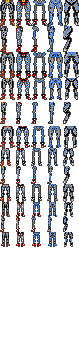
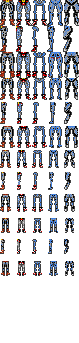
Daily checkin

Changed region(s): [[0.6076, 0.2915, 0.9873, 0.8163], [0.2025, 0.2915, 0.5823, 0.8163], [0.0, 0.4082, 0.1519, 0.8163]]

diff --git a/testing.js b/testing.js
@@ -7,13 +7,11 @@ var characterSpriteLocations = characterSpriteLocation();
 
 function testing(){
     
-
-    
-    if (test > 3){
-        test = 0;
+    if (DIRECTION > 3){
+        DIRECTION = 0;
     };
-    if (test < 0){
-        test = 3;
+    if (DIRECTION < 0){
+        DIRECTION = 3;
     }
     
     var CHAR_PARTY_FRONT_RIGHTX = 65,
@@ -23,41 +21,44 @@ function testing(){
             CHAR_SOLO_X = 0,
             CHAR_SOLO_Y = 0;
     
-    //test1 = 1;
-   //test = 3;
+//test1 = 3;
+ //test = 3;
     
-    var DISTANCE = test1;  
+
     
-    var CHAR_OFFSETX = CHAR_PARTY_FRONT_LEFTX,
-            CHAR_OFFSETY = CHAR_PARTY_FRONT_LEFTY;
+    var CHAR_OFFSETX = CHAR_SOLO_X,
+            CHAR_OFFSETY = CHAR_SOLO_Y;
+    
+    //var COLOR = 0;
     
     try {
         
-        switch (test) {
+        switch (DIRECTION) {
             
-            case 0:{ctx.drawImage(characterGfx[IMAGE_CHA_LEG][test2][test1][test],characterSpriteLocations[DISTANCE][0][0]+CHAR_OFFSETX,characterSpriteLocations[DISTANCE][0][1]+CHAR_OFFSETY,characterGfx[IMAGE_CHA_LEG][test2][test1][test].width * scale, characterGfx[IMAGE_CHA_LEG][test2][test1][test].height * scale); 
-                    ctx.drawImage(characterGfx[IMAGE_CHA_BODY][test2][test1][test],characterSpriteLocations[DISTANCE][1][0]+CHAR_OFFSETX,characterSpriteLocations[DISTANCE][1][1]+CHAR_OFFSETY,characterGfx[IMAGE_CHA_BODY][test2][test1][test].width * scale, characterGfx[IMAGE_CHA_BODY][test2][test1][test].height * scale); 
-                    ctx.drawImage(characterGfx[IMAGE_CHA_HEAD][test2][test1][test],characterSpriteLocations[DISTANCE][2][0]+CHAR_OFFSETX,characterSpriteLocations[DISTANCE][2][1]+CHAR_OFFSETY,characterGfx[IMAGE_CHA_HEAD][test2][test1][test].width * scale, characterGfx[IMAGE_CHA_HEAD][test2][test1][test].height * scale); 
-                    ctx.drawImage(flipImage(characterGfx[IMAGE_CHA_ARM][0][test1][test]),characterSpriteLocations[DISTANCE][3][0]+CHAR_OFFSETX,characterSpriteLocations[DISTANCE][3][1]+CHAR_OFFSETY,characterGfx[IMAGE_CHA_ARM][0][test1][test].width * scale, characterGfx[IMAGE_CHA_ARM][0][test1][test].height * scale);
-                    ctx.drawImage(characterGfx[IMAGE_CHA_ARM][0][test1][test],characterSpriteLocations[DISTANCE][4][0]+CHAR_OFFSETX,characterSpriteLocations[DISTANCE][4][1]+CHAR_OFFSETY-DISTANCE,characterGfx[IMAGE_CHA_ARM][0][test1][test].width * scale, characterGfx[IMAGE_CHA_ARM][0][test1][test].height * scale);}break;
-            case 1:{ctx.drawImage(characterGfx[IMAGE_CHA_LEG][test2][test1][test],characterSpriteLocations[DISTANCE][5][0]+CHAR_OFFSETX,characterSpriteLocations[DISTANCE][5][1]+CHAR_OFFSETY,characterGfx[IMAGE_CHA_LEG][test2][test1][test].width * scale, characterGfx[IMAGE_CHA_LEG][test2][test1][test].height * scale); 
-                    ctx.drawImage(characterGfx[IMAGE_CHA_BODY][test2][test1][test],characterSpriteLocations[DISTANCE][6][0]+CHAR_OFFSETX,characterSpriteLocations[DISTANCE][6][1]+CHAR_OFFSETY,characterGfx[IMAGE_CHA_BODY][test2][test1][test].width * scale, characterGfx[IMAGE_CHA_BODY][test2][test1][test].height * scale); 
-                    ctx.drawImage(characterGfx[IMAGE_CHA_HEAD][test2][test1][test],characterSpriteLocations[DISTANCE][7][0]+CHAR_OFFSETX,characterSpriteLocations[DISTANCE][7][1]+CHAR_OFFSETY,characterGfx[IMAGE_CHA_HEAD][test2][test1][test].width * scale, characterGfx[IMAGE_CHA_HEAD][test2][test1][test].height * scale);                    
-                    ctx.drawImage(flipImage(characterGfx[IMAGE_CHA_ARM][0][0][1]),characterSpriteLocations[DISTANCE][8][0]+CHAR_OFFSETX,characterSpriteLocations[DISTANCE][8][1]+CHAR_OFFSETY,characterGfx[IMAGE_CHA_ARM][0][0][1].width * scale, characterGfx[IMAGE_CHA_ARM][0][0][1].height * scale);}break;
-            case 2:{ctx.drawImage(characterGfx[IMAGE_CHA_LEG][test2][test1][test],characterSpriteLocations[DISTANCE][9][0]+CHAR_OFFSETX,characterSpriteLocations[DISTANCE][9][1]+CHAR_OFFSETY,characterGfx[IMAGE_CHA_LEG][test2][test1][test].width * scale, characterGfx[IMAGE_CHA_LEG][test2][test1][test].height * scale); 
-                    ctx.drawImage(characterGfx[IMAGE_CHA_BODY][test2][test1][test],characterSpriteLocations[DISTANCE][10][0]+CHAR_OFFSETX,characterSpriteLocations[DISTANCE][10][1]+CHAR_OFFSETY,characterGfx[IMAGE_CHA_BODY][test2][test1][test].width * scale, characterGfx[IMAGE_CHA_BODY][test2][test1][test].height * scale); 
-                    ctx.drawImage(characterGfx[IMAGE_CHA_HEAD][test2][test1][test],characterSpriteLocations[DISTANCE][11][0]+CHAR_OFFSETX,characterSpriteLocations[DISTANCE][11][1]+CHAR_OFFSETY,characterGfx[IMAGE_CHA_HEAD][test2][test1][test].width * scale, characterGfx[IMAGE_CHA_HEAD][test2][test1][test].height * scale);
-                    ctx.drawImage(characterGfx[IMAGE_CHA_ARM][0][0][1],characterSpriteLocations[DISTANCE][12][0]+CHAR_OFFSETX,characterSpriteLocations[DISTANCE][12][1]+CHAR_OFFSETY,characterGfx[IMAGE_CHA_ARM][0][0][1].width * scale, characterGfx[IMAGE_CHA_ARM][0][0][1].height * scale);}break;
-            case 3:{ctx.drawImage(characterGfx[IMAGE_CHA_LEG][test2][test1][test],characterSpriteLocations[DISTANCE][13][0]+CHAR_OFFSETX,characterSpriteLocations[DISTANCE][13][1]+CHAR_OFFSETY,characterGfx[IMAGE_CHA_LEG][test2][test1][test].width * scale, characterGfx[IMAGE_CHA_LEG][test2][test1][test].height * scale); 
-                    ctx.drawImage(characterGfx[IMAGE_CHA_BODY][test2][test1][test],characterSpriteLocations[DISTANCE][14][0]+CHAR_OFFSETX,characterSpriteLocations[DISTANCE][14][1]+CHAR_OFFSETY,characterGfx[IMAGE_CHA_BODY][test2][test1][test].width * scale, characterGfx[IMAGE_CHA_BODY][test2][test1][test].height * scale); 
-                    ctx.drawImage(characterGfx[IMAGE_CHA_HEAD][test2][test1][test],characterSpriteLocations[DISTANCE][15][0]+CHAR_OFFSETX,characterSpriteLocations[DISTANCE][15][1]+CHAR_OFFSETY,characterGfx[IMAGE_CHA_HEAD][test2][test1][test].width * scale, characterGfx[IMAGE_CHA_HEAD][test2][test1][test].height * scale); 
-                    ctx.drawImage(characterGfx[IMAGE_CHA_ARM][0][0][0],characterSpriteLocations[DISTANCE][16][0]+CHAR_OFFSETX,characterSpriteLocations[DISTANCE][16][1]+CHAR_OFFSETY,characterGfx[IMAGE_CHA_ARM][0][0][0].width * scale, characterGfx[IMAGE_CHA_ARM][0][0][0].height * scale);
-                    ctx.drawImage(flipImage(characterGfx[IMAGE_CHA_ARM][0][0][0]),characterSpriteLocations[DISTANCE][17][0]+CHAR_OFFSETX,characterSpriteLocations[DISTANCE][17][1]+CHAR_OFFSETY,characterGfx[IMAGE_CHA_ARM][0][0][0].width * scale, characterGfx[IMAGE_CHA_ARM][0][0][0].height * scale);
+            case 0:{ctx.drawImage(characterGfx[IMAGE_CHA_LEG][TYPE][DISTANCE][DIRECTION],characterSpriteLocations[DISTANCE][0][0]+CHAR_OFFSETX,characterSpriteLocations[DISTANCE][0][1]+CHAR_OFFSETY,characterGfx[IMAGE_CHA_LEG][TYPE][DISTANCE][DIRECTION].width * scale, characterGfx[IMAGE_CHA_LEG][TYPE][DISTANCE][DIRECTION].height * scale); 
+                    ctx.drawImage(characterGfx[IMAGE_CHA_BODY][TYPE][DISTANCE][DIRECTION],characterSpriteLocations[DISTANCE][1][0]+CHAR_OFFSETX,characterSpriteLocations[DISTANCE][1][1]+CHAR_OFFSETY,characterGfx[IMAGE_CHA_BODY][TYPE][DISTANCE][DIRECTION].width * scale, characterGfx[IMAGE_CHA_BODY][TYPE][DISTANCE][DIRECTION].height * scale); 
+                    ctx.drawImage(characterGfx[IMAGE_CHA_HEAD][TYPE][DISTANCE][DIRECTION],characterSpriteLocations[DISTANCE][2][0]+CHAR_OFFSETX,characterSpriteLocations[DISTANCE][2][1]+CHAR_OFFSETY,characterGfx[IMAGE_CHA_HEAD][TYPE][DISTANCE][DIRECTION].width * scale, characterGfx[IMAGE_CHA_HEAD][TYPE][DISTANCE][DIRECTION].height * scale); 
+                    ctx.drawImage(flipImage(characterGfx[IMAGE_CHA_ARM][0][DISTANCE][DIRECTION]),characterSpriteLocations[DISTANCE][3][0]+CHAR_OFFSETX,characterSpriteLocations[DISTANCE][3][1]+CHAR_OFFSETY,characterGfx[IMAGE_CHA_ARM][0][DISTANCE][DIRECTION].width * scale, characterGfx[IMAGE_CHA_ARM][0][DISTANCE][DIRECTION].height * scale);
+                    ctx.drawImage(characterGfx[IMAGE_CHA_ARM][0][DISTANCE][DIRECTION],characterSpriteLocations[DISTANCE][4][0]+CHAR_OFFSETX,characterSpriteLocations[DISTANCE][4][1]+CHAR_OFFSETY-DISTANCE,characterGfx[IMAGE_CHA_ARM][0][DISTANCE][DIRECTION].width * scale, characterGfx[IMAGE_CHA_ARM][0][DISTANCE][DIRECTION].height * scale);}break;
+            case 1:{ctx.drawImage(characterGfx[IMAGE_CHA_LEG][TYPE][DISTANCE][DIRECTION],characterSpriteLocations[DISTANCE][5][0]+CHAR_OFFSETX,characterSpriteLocations[DISTANCE][5][1]+CHAR_OFFSETY,characterGfx[IMAGE_CHA_LEG][TYPE][DISTANCE][DIRECTION].width * scale, characterGfx[IMAGE_CHA_LEG][TYPE][DISTANCE][DIRECTION].height * scale); 
+                    ctx.drawImage(characterGfx[IMAGE_CHA_BODY][TYPE][DISTANCE][DIRECTION],characterSpriteLocations[DISTANCE][6][0]+CHAR_OFFSETX,characterSpriteLocations[DISTANCE][6][1]+CHAR_OFFSETY,characterGfx[IMAGE_CHA_BODY][TYPE][DISTANCE][DIRECTION].width * scale, characterGfx[IMAGE_CHA_BODY][TYPE][DISTANCE][DIRECTION].height * scale); 
+                    ctx.drawImage(characterGfx[IMAGE_CHA_HEAD][TYPE][DISTANCE][DIRECTION],characterSpriteLocations[DISTANCE][7][0]+CHAR_OFFSETX,characterSpriteLocations[DISTANCE][7][1]+CHAR_OFFSETY,characterGfx[IMAGE_CHA_HEAD][TYPE][DISTANCE][DIRECTION].width * scale, characterGfx[IMAGE_CHA_HEAD][TYPE][DISTANCE][DIRECTION].height * scale);                    
+                    ctx.drawImage(flipImage(characterGfx[IMAGE_CHA_ARM][0][DISTANCE][DIRECTION]),characterSpriteLocations[DISTANCE][8][0]+CHAR_OFFSETX,characterSpriteLocations[DISTANCE][8][1]+CHAR_OFFSETY,characterGfx[IMAGE_CHA_ARM][0][DISTANCE][DIRECTION].width * scale, characterGfx[IMAGE_CHA_ARM][0][DISTANCE][DIRECTION].height * scale);}break;
+            case 2:{ctx.drawImage(characterGfx[IMAGE_CHA_LEG][TYPE][DISTANCE][DIRECTION],characterSpriteLocations[DISTANCE][9][0]+CHAR_OFFSETX,characterSpriteLocations[DISTANCE][9][1]+CHAR_OFFSETY,characterGfx[IMAGE_CHA_LEG][TYPE][DISTANCE][DIRECTION].width * scale, characterGfx[IMAGE_CHA_LEG][TYPE][DISTANCE][DIRECTION].height * scale); 
+                    ctx.drawImage(characterGfx[IMAGE_CHA_BODY][TYPE][DISTANCE][DIRECTION],characterSpriteLocations[DISTANCE][10][0]+CHAR_OFFSETX,characterSpriteLocations[DISTANCE][10][1]+CHAR_OFFSETY,characterGfx[IMAGE_CHA_BODY][TYPE][DISTANCE][DIRECTION].width * scale, characterGfx[IMAGE_CHA_BODY][TYPE][DISTANCE][DIRECTION].height * scale); 
+                    ctx.drawImage(characterGfx[IMAGE_CHA_HEAD][TYPE][DISTANCE][DIRECTION],characterSpriteLocations[DISTANCE][11][0]+CHAR_OFFSETX,characterSpriteLocations[DISTANCE][11][1]+CHAR_OFFSETY,characterGfx[IMAGE_CHA_HEAD][TYPE][DISTANCE][DIRECTION].width * scale, characterGfx[IMAGE_CHA_HEAD][TYPE][DISTANCE][DIRECTION].height * scale);
+                    ctx.drawImage(flipImage(characterGfx[IMAGE_CHA_ARM][0][DISTANCE][DIRECTION]),characterSpriteLocations[DISTANCE][12][0]+CHAR_OFFSETX,characterSpriteLocations[DISTANCE][12][1]+CHAR_OFFSETY,characterGfx[IMAGE_CHA_ARM][0][DISTANCE][DIRECTION].width * scale, characterGfx[IMAGE_CHA_ARM][0][DISTANCE][DIRECTION].height * scale);}break;
+            case 3:{ctx.drawImage(characterGfx[IMAGE_CHA_LEG][TYPE][DISTANCE][DIRECTION],characterSpriteLocations[DISTANCE][13][0]+CHAR_OFFSETX,characterSpriteLocations[DISTANCE][13][1]+CHAR_OFFSETY,characterGfx[IMAGE_CHA_LEG][TYPE][DISTANCE][DIRECTION].width * scale, characterGfx[IMAGE_CHA_LEG][TYPE][DISTANCE][DIRECTION].height * scale); 
+                    ctx.drawImage(characterGfx[IMAGE_CHA_BODY][TYPE][DISTANCE][DIRECTION],characterSpriteLocations[DISTANCE][14][0]+CHAR_OFFSETX,characterSpriteLocations[DISTANCE][14][1]+CHAR_OFFSETY,characterGfx[IMAGE_CHA_BODY][TYPE][DISTANCE][DIRECTION].width * scale, characterGfx[IMAGE_CHA_BODY][TYPE][DISTANCE][DIRECTION].height * scale); 
+                    ctx.drawImage(characterGfx[IMAGE_CHA_HEAD][TYPE][DISTANCE][DIRECTION],characterSpriteLocations[DISTANCE][15][0]+CHAR_OFFSETX,characterSpriteLocations[DISTANCE][15][1]+CHAR_OFFSETY,characterGfx[IMAGE_CHA_HEAD][TYPE][DISTANCE][DIRECTION].width * scale, characterGfx[IMAGE_CHA_HEAD][TYPE][DISTANCE][DIRECTION].height * scale); 
+                    ctx.drawImage(flipImage(characterGfx[IMAGE_CHA_ARM][0][DISTANCE][0]),characterSpriteLocations[DISTANCE][17][0]+CHAR_OFFSETX,characterSpriteLocations[DISTANCE][17][1]+CHAR_OFFSETY,characterGfx[IMAGE_CHA_ARM][0][DISTANCE][0].width * scale, characterGfx[IMAGE_CHA_ARM][0][DISTANCE][0].height * scale);
+                    ctx.drawImage(characterGfx[IMAGE_CHA_ARM][0][DISTANCE][0],characterSpriteLocations[DISTANCE][16][0]+CHAR_OFFSETX,characterSpriteLocations[DISTANCE][16][1]+CHAR_OFFSETY,characterGfx[IMAGE_CHA_ARM][0][DISTANCE][0].width * scale, characterGfx[IMAGE_CHA_ARM][0][DISTANCE][0].height * scale);
+                    
                     }break;
         }
         
         
-    }catch(e){};
+    }catch(e){PrintLog("Error Drawing Character/Monster: " + e.toString());};
     
 }
 
@@ -77,47 +78,96 @@ function characterSpriteLocation(){
                             new Array(155,82),
                             //Left View
                             new Array(182,116),
-                            new Array(175,74),
-                            new Array(175,53),
+                            new Array(174,74),
+                            new Array(174,53),
                             new Array(185,82),
                             //Right View
-                            new Array(160,116),                            
-                            new Array(168,74),
-                            new Array(176,53),
-                            new Array(176,82),
+                            new Array(154,116),                            
+                            new Array(164,74),
+                            new Array(174,53),
+                            new Array(172,82),
                             //Rear View
                             new Array(170,116),//Leg
                             new Array(170,74),//Body                            
-                            new Array(175,53),//Head
+                            new Array(176,53),//Head
                             new Array(155,82),//Left Arm
                             new Array(201,82)));//Right Arm
                 }
-                if (x === 1) {
+             if (x === 1) {
                     myArray.push(new Array(
                             //Front View
-                            new Array(184,110),
-                            new Array(187,74),
-                            new Array(193,53),
-                            new Array(217,80),
-                            new Array(175,80),
-                            //Left View
-                            new Array(182,116),
+                            new Array(172,110),
                             new Array(175,74),
-                            new Array(175,53),
-                            new Array(185,82),
+                            new Array(181,53),
+                            new Array(205,80),
+                            new Array(163,80),
+                            //Left View
+                            new Array(182,110),
+                            new Array(180,74),
+                            new Array(183,53),
+                            new Array(192,75),
                             //Right View
-                            new Array(160,116),                            
-                            new Array(168,74),
-                            new Array(176,53),
-                            new Array(176,82),
+                            new Array(156,110),
+                            new Array(162,74),
+                            new Array(170,53),
+                            new Array(168,75),
                             //Rear View
-                            new Array(170,116),//Leg
-                            new Array(170,74),//Body                            
-                            new Array(175,53),//Head
-                            new Array(165,82),//Left Arm
-                            new Array(201,82)));//Right Arm
+                            new Array(172,110),//Leg
+                            new Array(175,74),//Body                            
+                            new Array(181,53),//Head
+                            new Array(163,80),//Left Arm
+                            new Array(205,80)));//Right Arm
                 }            
-             
+             if (x === 2) {
+                    myArray.push(new Array(
+                            //Front View
+                            new Array(177,110),
+                            new Array(180,80),
+                            new Array(183,61),
+                            new Array(204,86),
+                            new Array(168,88),
+                            //Left View
+                            new Array(184,110),
+                            new Array(181,80),
+                            new Array(185,62),
+                            new Array(194,87),
+                            //Right View
+                            new Array(162,110),
+                            new Array(168,80),
+                            new Array(172,62),
+                            new Array(173,87),
+                            //Rear View
+                            new Array(177,110),
+                            new Array(180,80),
+                            new Array(183,61),
+                            new Array(168,86),
+                            new Array(204,86)));//Right Arm
+                }   
+             if (x === 3) {
+                    myArray.push(new Array(
+                            //Front View
+                            new Array(176,104),
+                            new Array(179,86),
+                            new Array(185,68),
+                            new Array(203,75),
+                            new Array(173,78),
+                            //Left View
+                            new Array(194,110),
+                            new Array(192,74),
+                            new Array(195,53),
+                            new Array(204,75),
+                            //Right View
+                            new Array(168,110),
+                            new Array(174,74),
+                            new Array(182,53),
+                            new Array(180,75),
+                            //Rear View
+                            new Array(176,104),
+                            new Array(181,86),
+                            new Array(182,74),
+                            new Array(172,72),
+                            new Array(199,72)));//Right Arm
+                }    
                         }
     
     return myArray;

diff --git a/graphicsCharacters.js b/graphicsCharacters.js
@@ -22,7 +22,8 @@ var NUMBER_OF_DISTANCES = 12,
             NUMBER_OF_HEADS = 19,
             NUMBER_OF_BODIES = 4,
             NUMBER_OF_LEGS = 4,
-            NUMBER_OF_ARMS = 1;
+            NUMBER_OF_ARMS = 1,
+            NUMBER_OF_COLORS = 1;
     
 //imageCharacterArray[BodyPart][Type][Distance][Direction]   
 var characterGfx = [];
@@ -31,40 +32,48 @@ var characterGfx = [];
 
 function getCharacterSprite(NUMBER_OF_ITEMS,graphicsFolder,graphic,spritWidth,spriteHeight,colSize) {
     
-    var graphicArray = [];    
-
-    for (x = 0;x <= NUMBER_OF_ITEMS;x++){
-        var mid = [];
-        var far = [];
-        var close = [];
-        var distant = [];
-        var pos = 0;
-            
-            for (y = 0;y < NUMBER_OF_DISTANCES;y++){
-                
+    var graphicArray = [];  
+    var MYCOLOR = 0,
+            COLORS=[];
+    
+   // for (MYCOLOR = 0;MYCOLOR <= NUMBER_OF_COLORS;MYCOLOR++){        
+         for (x = 0;x <= NUMBER_OF_ITEMS;x++){
+        
+            var MID = [],
+                        FAR = [],
+                        CLOSE = [],
+                        DISTANT = [],
+                        POSITION = 0;
+                        
+               
+            for (y = 0;y < NUMBER_OF_DISTANCES;y++){              
+                               
                 switch (y){
                     
-                case 0:{close.push(grabImageAt(gfx[graphicsFolder][graphic][0],x*colSize, pos, spritWidth, spriteHeight, false));pos=pos+spriteHeight;};break
-                    case 1:{close.push(grabImageAt(gfx[graphicsFolder][graphic][0],x*colSize, pos, spritWidth, spriteHeight, false));close.push(grabImageAt(gfx[graphicsFolder][graphic][0],x*colSize, pos, spritWidth, spriteHeight, true));pos=pos+spriteHeight;};break
-                    case 2:{close.push(grabImageAt(gfx[graphicsFolder][graphic][0],x*colSize, pos, spritWidth, spriteHeight, false));pos=pos+spriteHeight;};break
+                case 0:{CLOSE.push(grabImageAt(gfx[graphicsFolder][graphic][MYCOLOR],x*colSize, POSITION, spritWidth, spriteHeight, false));POSITION=POSITION+spriteHeight;};break
+                    case 1:{CLOSE.push(grabImageAt(gfx[graphicsFolder][graphic][MYCOLOR],x*colSize, POSITION, spritWidth, spriteHeight, false));CLOSE.push(grabImageAt(gfx[graphicsFolder][graphic][MYCOLOR],x*colSize, POSITION, spritWidth, spriteHeight, true));POSITION=POSITION+spriteHeight;};break
+                    case 2:{CLOSE.push(grabImageAt(gfx[graphicsFolder][graphic][MYCOLOR],x*colSize, POSITION, spritWidth, spriteHeight, false));POSITION=POSITION+spriteHeight;};break
+                
+                case 3:{MID.push(grabImageAt(gfx[graphicsFolder][graphic][MYCOLOR],x*colSize, POSITION, spritWidth-2, spriteHeight-2,false));POSITION=POSITION+spriteHeight-2;};break    
+                    case 4:{MID.push(grabImageAt(gfx[graphicsFolder][graphic][MYCOLOR],x*colSize, POSITION, spritWidth-2, spriteHeight-2,false));MID.push(grabImageAt(gfx[graphicsFolder][graphic][MYCOLOR],x*colSize, POSITION, spritWidth-2, spriteHeight-2,true));POSITION=POSITION+spriteHeight-2;};break
+                    case 5:{MID.push(grabImageAt(gfx[graphicsFolder][graphic][MYCOLOR],x*colSize, POSITION, spritWidth-2, spriteHeight-2,false));POSITION=POSITION+spriteHeight-2;};break
                     
-                case 3:{mid.push(grabImageAt(gfx[graphicsFolder][graphic][0],x*colSize, pos, spritWidth-2, spriteHeight-2,false));pos=pos+spriteHeight-2;};break    
-                    case 4:{mid.push(grabImageAt(gfx[graphicsFolder][graphic][0],x*colSize, pos, spritWidth-2, spriteHeight-2,false));mid.push(grabImageAt(gfx[graphicsFolder][graphic][0],x*colSize, pos, spritWidth-2, spriteHeight-2,true));pos=pos+spriteHeight-2;};break
-                    case 5:{mid.push(grabImageAt(gfx[graphicsFolder][graphic][0],x*colSize, pos, spritWidth-2, spriteHeight-2,false));pos=pos+spriteHeight-2;};break
+                case 6:{FAR.push(grabImageAt(gfx[graphicsFolder][graphic][MYCOLOR],x*colSize, POSITION, spritWidth-4, spriteHeight-4, false));POSITION=POSITION+spriteHeight-4;};break
+                    case 7:{FAR.push(grabImageAt(gfx[graphicsFolder][graphic][MYCOLOR],x*colSize, POSITION, spritWidth-4, spriteHeight-4, false));FAR.push(grabImageAt(gfx[graphicsFolder][graphic][MYCOLOR],x*colSize, POSITION, spritWidth-4, spriteHeight-4, true));POSITION=POSITION+spriteHeight-4;};break
+                    case 8:{FAR.push(grabImageAt(gfx[graphicsFolder][graphic][MYCOLOR],x*colSize, POSITION, spritWidth-4, spriteHeight-4, false));POSITION=POSITION+spriteHeight-4;};break
                     
-                case 6:{far.push(grabImageAt(gfx[graphicsFolder][graphic][0],x*colSize, pos, spritWidth-4, spriteHeight-4, false));pos=pos+spriteHeight-4;};break
-                    case 7:{far.push(grabImageAt(gfx[graphicsFolder][graphic][0],x*colSize, pos, spritWidth-4, spriteHeight-4, false));far.push(grabImageAt(gfx[graphicsFolder][graphic][0],x*colSize, pos, spritWidth-4, spriteHeight-4, true));pos=pos+spriteHeight-4;};break
-                    case 8:{far.push(grabImageAt(gfx[graphicsFolder][graphic][0],x*colSize, pos, spritWidth-4, spriteHeight-4, false));pos=pos+spriteHeight-9;};break
-                    
-                case 9:{distant.push(grabImageAt(gfx[graphicsFolder][graphic][0],x*colSize, pos, spritWidth-6, spriteHeight-6, false));pos=pos+spriteHeight-6;};break
-                    case 10:{distant.push(grabImageAt(gfx[graphicsFolder][graphic][0],x*colSize, pos, spritWidth-6, spriteHeight-6, false));distant.push(grabImageAt(gfx[graphicsFolder][graphic][0],x*colSize, pos, 5, 6, true));pos=pos+spriteHeight-6;};break
-                    case 11:{distant.push(grabImageAt(gfx[graphicsFolder][graphic][0],(x*colSize)+1, pos, spritWidth-6, spriteHeight-6, false));};break  
+                case 9:{DISTANT.push(grabImageAt(gfx[graphicsFolder][graphic][MYCOLOR],x*colSize, POSITION, spritWidth-6, spriteHeight-6, false));POSITION=POSITION+spriteHeight-4;};break
+                    case 10:{DISTANT.push(grabImageAt(gfx[graphicsFolder][graphic][MYCOLOR],x*colSize, POSITION, spritWidth-6, spriteHeight-6, false));DISTANT.push(grabImageAt(gfx[graphicsFolder][graphic][MYCOLOR],x*colSize, POSITION, 5, 6, true));POSITION=POSITION+spriteHeight-4;};break
+                    case 11:{DISTANT.push(grabImageAt(gfx[graphicsFolder][graphic][MYCOLOR],(x*colSize)+1, POSITION, spritWidth-6, spriteHeight-6, false));};break  
                 }
                 
             }
-        graphicArray.push(new Array(close,mid,far,distant));
-    }
-
-    characterGfx.push(graphicArray);
+            graphicArray.push(new Array(CLOSE,MID,FAR,DISTANT));  
+              
+            }
+            
+      //COLORS.push(graphicArray);}   
+     
+     characterGfx.push(graphicArray);
 
 }

diff --git a/tools.js b/tools.js
@@ -178,7 +178,9 @@ function PrintLog(myString) {
     if (debug) {console.log(getTimeStamp() +" Debug: " +myString);}
 }
 
-function grabImageAt(image,startX,startY,width,height,flip) {
+function grabImageAt(image,startX,startY,width,height,flip,scale) {
+    
+    if (typeof scale === "undefined"){scale = 1;};
     
 try{
           var can = document.createElement('canvas');
@@ -187,11 +189,13 @@ try{
           var flipcontext = can.getContext("2d");
           var flipimageObj = new Image();
           flipimageObj.width = width;
-          flipimageObj.height = height;
+          flipimageObj.height = height;          
           if (flip){
-            flipcontext.translate(width, 0);   
-            flipcontext.scale(-1, 1);
-        } 
+              flipcontext.translate(width, 0);
+              flipcontext.scale(-scale, scale);
+          }
+          else{flipcontext.scale(scale, scale);}
+          
           flipcontext.drawImage(image, startX, startY, width, height, 0, 0, width, height);
           flipcontext.save();           
           flipimageObj.src = can.toDataURL();

diff --git a/input.js b/input.js
@@ -69,6 +69,8 @@ var KEYPAD_8 = 104,
         KEY_E = 69,
         KEY_R = 82,
         KEY_F = 70,
+        KEY_5 = 53,
+        KEY_6 = 54,
         KEY_7 = 55,
         KEY_8 = 56,
         KEY_9 = 57,
@@ -108,12 +110,14 @@ function doKeyDown(e) {
         case KEY_E: player[0].rotateTo(player[0].Rotation + 1);break;    // E KEY
         case KEY_R: player[0].toggleFrontObject();break; //R Key
         case KEY_F: player[0].testMode();break; // F cheat
-        case KEY_PLUS: test++; break;
-        case KEY_MINUS: test--; break;
-        case KEY_7: test1++; break;
-        case KEY_8: test1--; break;
-        case KEY_0: test2++; break;
-        case KEY_9: test2--; break;
+        case KEY_PLUS: DIRECTION++; break;
+        case KEY_MINUS: DIRECTION--; break;
+        case KEY_5: COLOR++; break;
+        case KEY_6: COLOR--; break;
+        case KEY_7: DISTANCE++; break;
+        case KEY_8: DISTANCE--; break;
+        case KEY_0: TYPE++; break;
+        case KEY_9: TYPE--; break;
         default: break;
     }
 

diff --git a/Bloodwych.js b/Bloodwych.js
@@ -3,9 +3,10 @@ var scale = 3;
 var debug = true;
 var debugHigh = false;
 var game;
-var test = 0,
-        test1 = 0,
-        test2 = 0;
+var DIRECTION = 0,
+        DISTANCE = 0,
+        TYPE = 0,
+        COLOR = 0;
 
 //Flags for determining whether some asycnhronous file calls were succesfully loaded (see fileloader.js "getFileData")
 var gameGfxLoaded = { monsterHeads: false, monsterLegs: false, monsterArms: false, monsterBodies: false };

diff --git a/player.js b/player.js
@@ -370,7 +370,7 @@ Player.prototype.distanceFromPlayer = function(block) {
 }
 
 function initPlayers() {
-	player[0] = new Player(0, 12, 23, 3, 0, 0,   0);       
+	player[0] = new Player(0, 12, 23, 3, 1, 0,   0);       
 	player[1] = new Player(1, 14, 22, 3, 0, 410, 0);
 }
 
